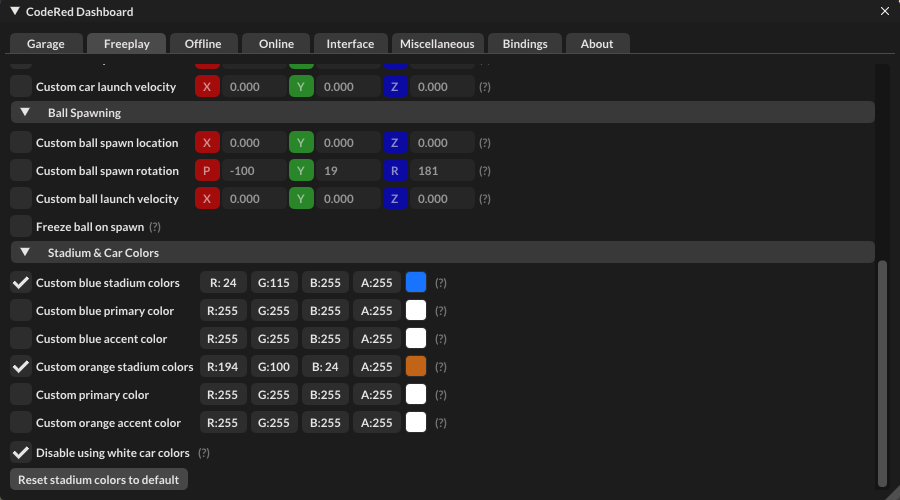
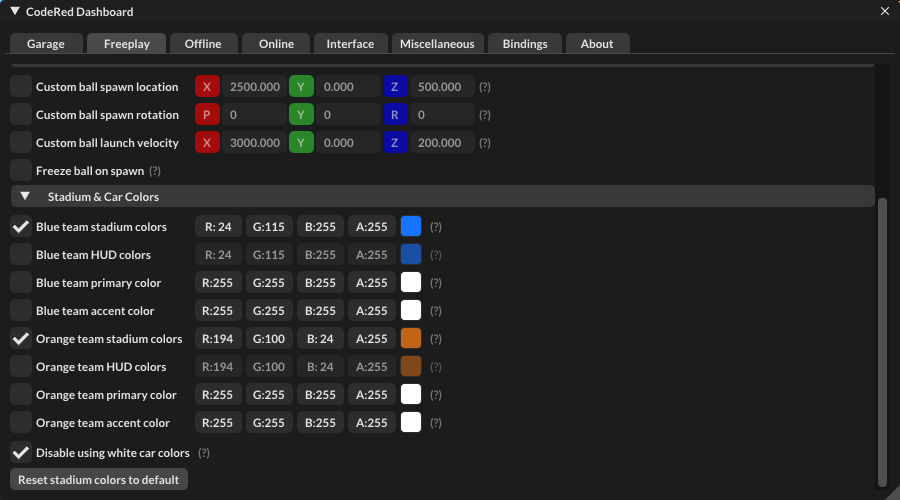
Initial Commit

diff --git a/documentation.html b/documentation.html
@@ -92,7 +92,7 @@
 				    <li class="nav-item"><a class="nav-link scrollto" href="#item-6-3">Custom Titles</a></li>
                     <li class="nav-item"><a class="nav-link scrollto" href="#item-6-4">Bug Reporting</li>
 				    <li class="nav-item section-title mt-3"><a class="nav-link scrollto" href="#section-7"><span class="theme-icon-holder me-2"><i class="fas fa-book"></i></span>Changelog</a></li>
-				    <li class="nav-item"><a class="nav-link scrollto" href="#item-7-1">Version 1.2.3</a></li>
+				    <li class="nav-item"><a class="nav-link scrollto" href="#item-7-1">Version 1.2.4</a></li>
 			    </ul>
 		    </nav>
 	    </div>
@@ -558,7 +558,7 @@
                                     </tr>
                                     <tr>
                                         <th class="theme-bg-light"><b>freeplay_blue_enabled &lttrue-false&gt</b></th>
-                                        <td>Enable/disable overriding the blue stadium colors in freeplay.</td>
+                                        <td>Enable overriding the blue stadium colors in freeplay.</td>
                                     </tr>
                                     <tr>
                                         <th class="theme-bg-light"><b>freeplay_blue_primary &lt#FFFFFF&gt</b></th>
@@ -571,6 +571,14 @@
                                     <tr>
                                         <th class="theme-bg-light"><b>freeplay_blue_stadium &lt#1873FF&gt</b></th>
                                         <td>The stadium colors to override on the blue team in freeplay.</td>
+                                    </tr>
+                                    <tr>
+                                        <th class="theme-bg-light"><b>freeplay_blue_hud &lt#1873FF&gt</b></th>
+                                        <td>The HUD colors to override on the blue team in freepla</td>
+                                    </tr>
+                                    <tr>
+                                        <th class="theme-bg-light"><b>freeplay_blue_hud_enabled &lttrue-false&gt</b></th>
+                                        <td>Enable overriding the blue team HUD colors with a custom one in freeplay.</td>
                                     </tr>
                                     <tr>
                                         <th class="theme-bg-light"><b>freeplay_clear_overrides &lttrue-false&gt</b></th>
@@ -655,6 +663,14 @@
                                     <tr>
                                         <th class="theme-bg-light"><b>freeplay_orange_stadium &lt#C26418&gt</b></th>
                                         <td>The stadium colors to override on the orange team in freeplay.</td>
+                                    </tr>
+                                    <tr>
+                                        <th class="theme-bg-light"><b>freeplay_orange_hud &lt#C26418&gt</b></th>
+                                        <td>The HUD colors to override on the orange team in freeplay.</td>
+                                    </tr>
+                                    <tr>
+                                        <th class="theme-bg-light"><b>freeplay_orange_hud_enabled &lttrue-false&gt</b></th>
+                                        <td>Enable overriding the orange team HUD colors with a custom one in freeplay.</td>
                                     </tr>
                                     <tr>
                                         <th class="theme-bg-light"><b>freeplay_pad_cooldown</b></th>
@@ -1009,6 +1025,14 @@
                                         <td>Display a notification when a replay has been automatically saved.</td>
                                     </tr>
                                     <tr>
+                                        <th class="theme-bg-light"><b>interface_join_focus &lttrue-false&gt</b></th>
+                                        <td>Automatically focuses the window upon joining a game.</td>
+                                    </tr>
+                                    <tr>
+                                        <th class="theme-bg-light"><b>interface_kickoff_focus &lttrue-false&gt</b></th>
+                                        <td>Automatically focuses the window at the start of kickoffs.</td>
+                                    </tr>
+                                    <tr>
                                         <th class="theme-bg-light"><b>interface_presence_gamedata &ltarguments&gt</b></th>
                                         <td>Value to override your friends list game data with (for internal use only).</td>
                                     </tr>
@@ -1312,6 +1336,14 @@
                                         <td>The stadium colors to override on the blue team in online matches.</td>
                                     </tr>
                                     <tr>
+                                        <th class="theme-bg-light"><b>stadium_blue_hud &lt#1873FF&gt</b></th>
+                                        <td>The HUD colors to override on the blue team in online matches.</td>
+                                    </tr>
+                                    <tr>
+                                        <th class="theme-bg-light"><b>stadium_blue_hud_enabled &lttrue-false&gt</b></th>
+                                        <td>Enable overriding the blue team HUD colors with a custom one in online matches</td>
+                                    </tr>
+                                    <tr>
                                         <th class="theme-bg-light"><b>stadium_exclude_clubs &lttrue-false&gt</b></th>
                                         <td>Exclude club match colors from being overwritten by custom ones.</td>
                                     </tr>
@@ -1341,6 +1373,14 @@
                                     </tr>
                                     <tr>
                                         <th class="theme-bg-light"><b>stadium_orange_stadium &lt#C26418&gt</b></th>
+                                        <td>The stadium colors to override on the orange team in online matches.</td>
+                                    </tr>
+                                    <tr>
+                                        <th class="theme-bg-light"><b>stadium_orange_hud &lt#C26418&gt</b></th>
+                                        <td>Enable overriding the orange team HUD colors with a custom one in online matches.</td>
+                                    </tr>
+                                    <tr>
+                                        <th class="theme-bg-light"><b>stadium_orange_hud_enabled &lttrue-false&gt</b></th>
                                         <td>The stadium colors to override on the orange team in online matches.</td>
                                     </tr>
                                 </tbody>
@@ -1701,6 +1741,17 @@
 					    <h1 class="docs-heading">Changelog</h1>
 				    </header>
 				     <section class="docs-section" id="item-7-1">
+                        <h2 class="section-heading">Version 1.2.4 (January 21st 2023)</h2>
+                        <h5>- Added support for the missing product slots in the thumbnail renderer, boosts, goal explosions, banners, etc...</h5>
+                        <h5>- Added eight new settings which lets you recolor your HUD independently from your custom stadium colors.</h5>
+                        <h5>- Added two new settings inspired by lchmagKekse's "Window Focus" plugin for BakkesMod.</h5>
+                        <h5>- Added the setting <code>interface_join_focus</code> which auto focuses the window upon joining a match if you were alt-tabbed out.</h5>
+                        <h5>- Added the setting <code>interface_kickoff_focus</code> which auto focuses the window at the start of kickoffs if you were alt-tabbed out.</h5>
+                        <h5>- Fixed a crash that could happen if you waited for the game to auto kick you after online matches.</h5>
+                        <h5>- Fixed needing to go in and out of the main menu if you toggled the <code>interface_disable_rocketpass</code> feature on and off.</h5>
+                        <h5>- Fixed a bug related to the <code>database_paint_colors</code> argument for the database module.</h5>
+                        <h5>- Other various optimizations and improvements.</h5>
+
                         <h2 class="section-heading">Version 1.2.3 (January 16th 2023)</h2>
                         <h5>- Changed how the custom rich presence status group works, its new values are Offline, Online, Away, and Busy.</h5>
                         <h5>- Fixed some specific cases of the auto replay saver crashing (this feature is gonna be the death of me).</h5>
@@ -1712,7 +1763,6 @@
                         <h5>- Added the setting <code>interface_auto_gg</code> which automatically says gg in chat at the end of online matches.</h5>
                         <h5>- Added the setting <code>interface_gg_delay</code> which sets the delay in seconds for the <code>interface_auto_gg</code> setting.</h5>
                         <h5>- Added a limit to how many styles and effects you can create, the limit is now 512.</h5>
-                        <h5>- Fixed a crash that could happen if you waited for the game to auto kick you after online matches.</h5>
                         <h5>- Fixed your title not restoring to its original one if you disabled presets mid-game.</h5>
                         <h5>- Fixed you title still applying on the scoreboard even if you had presets disabled.</h5>
                         <h5>- Fixed team mmr sometimes being incorrect in 1v1 private matches.</h5>
